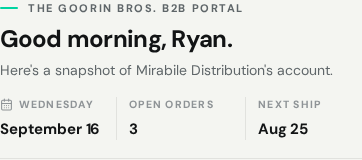
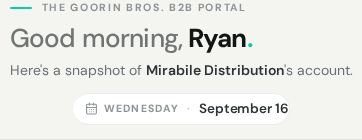
## Hero Tightened - Overview hero compacted: 32px two-tone greeting, tighter eyebrow/subtitle rhythm, date as a single-line pill centered with the heading; mobile left-aligned. Verified desktop + 390px screenshots. - Next Action Items:   - **Cart Persistence**: Keep the cart and saved addresses inta
Emergent-Commit-Key: 01cbcc8d407b8aebc6e465a42d4ecd9425f760257728a04cf14999c7ce5b9ccf

diff --git a/frontend/src/dashboard.css b/frontend/src/dashboard.css
@@ -325,3 +325,15 @@
 .dash-hero .dash-sub { margin-top: 12px; font-size: 15px; color: #686e73; }
 .dash-hero .dash-sub strong { color: #2d3235; font-weight: 600; }
 @media (max-width: 760px) { .dash-hero h1 { font-size: 28px !important; } .dash-hero .dash-sub { font-size: 14px; margin-top: 8px; } .dash-hero .dash-eyebrow { margin-bottom: 10px; } }
+/* ── Hero: tighter ──────────────────────────────────────── */
+.dash-hero { align-items: center; padding: 0 0 16px; margin-bottom: 20px; gap: 16px; }
+.dash-hero .dash-eyebrow { margin-bottom: 8px; }
+.dash-hero h1 { font-size: clamp(26px, 2.2vw, 32px) !important; line-height: 1.1; }
+.dash-hero .dash-sub { margin-top: 6px; font-size: 14px; }
+.dash-hero-strip div { flex-direction: row; align-items: center; gap: 8px; height: 36px; padding: 0 14px; border: 1px solid rgba(16,18,19,.08); border-radius: 999px; background: #fff; }
+.dash-hero-strip dt { font-size: 10.5px; }
+.dash-hero-strip dt::after { content: '·'; color: #c3c7c2; margin-left: 2px; }
+.dash-hero-strip dd { font-size: 13.5px; font-weight: 600; color: #2d3235; }
+@media (max-width: 900px) { .dash-hero { gap: 12px; } .dash-hero-strip { width: auto; } .dash-hero-strip div { flex: 0 0 auto; height: 32px; padding: 0 12px; } }
+@media (max-width: 760px) { .dash-hero { padding-bottom: 14px; margin-bottom: 16px; } .dash-hero h1 { font-size: 26px !important; } .dash-hero-strip div:first-child { padding-left: 12px; } }
+@media (max-width: 900px) { .dash-hero { align-items: flex-start; } }
